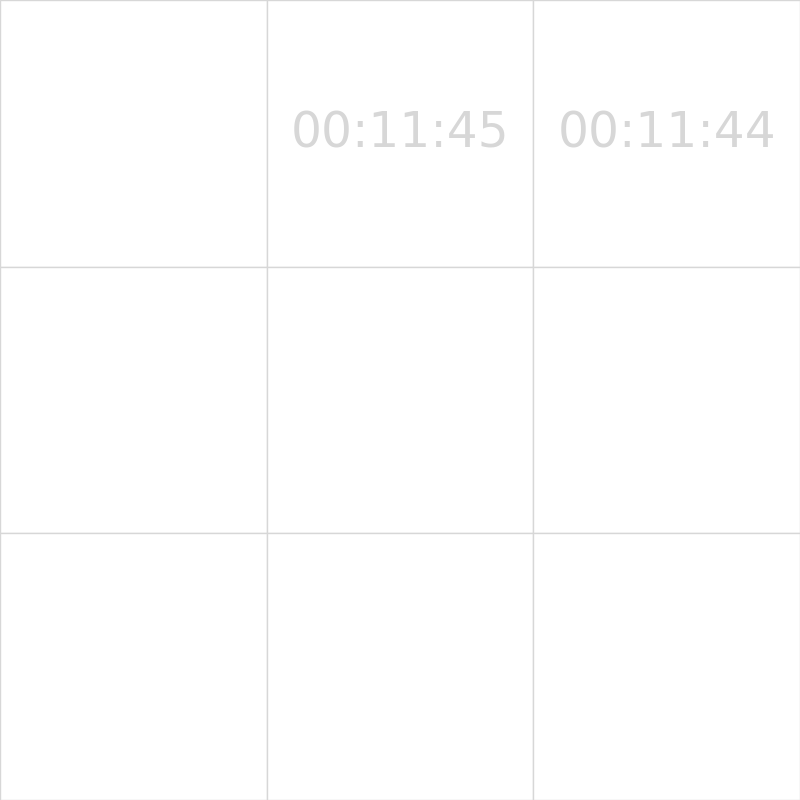
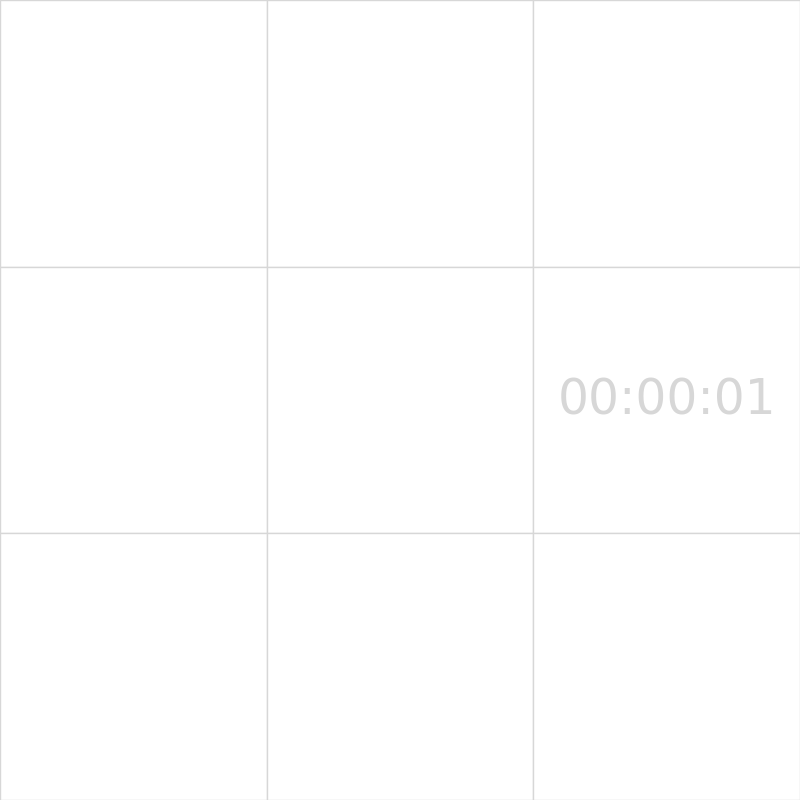
Agrega imágenes necesarias para visualizacion
Aumenta amplificación

diff --git a/sensorFlexibleSQLiteDB/recvSensor1.py b/sensorFlexibleSQLiteDB/recvSensor1.py
@@ -47,10 +47,10 @@ class Ui_MainWindow(object):
         #self.s.settimeout(0.5)
         #self.s.setsockopt(socket.IPPROTO_TCP, socket.TCP_NODELAY, 1)
         #self.s.setsockopt(socket.SOL_SOCKET, socket.SO_REUSEADDR, 1)
-        self.UDP_IP = "192.168.0.125"
+        self.UDP_IP = "192.168.0.108"
         self.UDP_PORT = 10000
 
-        self.UDP_IP_CLIENT = "192.168.0.100"
+        self.UDP_IP_CLIENT = "192.168.0.107"
         self.UDP_PORT_CLIENT = 2233
 
         print("escuchando",self.UDP_IP, self.UDP_PORT)
@@ -216,7 +216,7 @@ class Ui_MainWindow(object):
       
       for i in range(self.filas):
         for j in range(self.columnas):
-            matrizDistribucion[i][j] = matrizDistribucion[i][j]*20
+            matrizDistribucion[i][j] = matrizDistribucion[i][j]*25
 
             if matrizDistribucion[i][j] > 200:
                 matrizDistribucion[i][j] = 240

diff --git a/sensorFlexibleSQLiteDB/plotSensores.py b/sensorFlexibleSQLiteDB/plotSensores.py
@@ -104,7 +104,7 @@ class Ui_MainWindow(object):
 
         
     def dibujarDistribucionPresionSensor1(self):
-        #try:
+        try:
             maximoValor = 0
             for row in self.c.execute("SELECT * FROM sensorFlexible WHERE `id`='1'"):
                 dataSensor1 = row[1]
@@ -234,8 +234,8 @@ class Ui_MainWindow(object):
             crop1.save("../appSensorFlexibleWebLocalMatplotlib/img/sensor2SinTiempos.jpeg","jpeg")
             print('plot images')
             #sensorCompleto.save('/Applications/XAMPP/xamppfiles/htdocs/apps_rigido_flexible1/appSensorFlexibleWebLocalMatplotlib/img/sensor1.jpg')
-        #except:
-            #pass
+        except:
+            pass
 
       
 

diff --git a/sensorFlexibleSQLiteDB/recvSensor2.py b/sensorFlexibleSQLiteDB/recvSensor2.py
@@ -46,10 +46,10 @@ class Ui_MainWindow(object):
         #self.s.settimeout(0.5)
         #self.s.setsockopt(socket.IPPROTO_TCP, socket.TCP_NODELAY, 1)
         #self.s.setsockopt(socket.SOL_SOCKET, socket.SO_REUSEADDR, 1)
-        self.UDP_IP = "192.168.0.125"
+        self.UDP_IP = "192.168.0.108"
         self.UDP_PORT = 10001
 
-        self.UDP_IP_CLIENT = "192.168.0.101"
+        self.UDP_IP_CLIENT = "192.168.0.105"
         self.UDP_PORT_CLIENT = 2233
 
         self.s.bind((self.UDP_IP,self.UDP_PORT))

diff --git a/sensorFlexibleSQLiteDB/graphicsRealTimeAverageSensor.py b/sensorFlexibleSQLiteDB/graphicsRealTimeAverageSensor.py
@@ -36,9 +36,12 @@ class Ui_MainWindow(object):
         self.sqlDataBase()
 
         while True:
-            averageVector = self.AveragePerRow()
-            self.insertPoint(averageVector)
-            time.sleep(0.2)
+            try:
+                averageVector = self.AveragePerRow()
+                self.insertPoint(averageVector)
+                time.sleep(0.2)
+            except:
+                pass
         
     def sqlDataBase(self):
         

diff --git a/sensorFlexibleSQLiteDB/interfazTiemposExposicionSensor1.py b/sensorFlexibleSQLiteDB/interfazTiemposExposicionSensor1.py
@@ -22,7 +22,7 @@ maxint = 2 ** (struct.Struct('i').size * 8 - 1) - 1
 class interfazTiemposExposicion:
 
     def __init__(self):
-        self.tiempo = [['0:00:00','0:00:00','0:00:00'],['0:00:00','0:00:00','0:00:00'],['0:00:00','0:00:00','0:00:00']]
+        self.tiempo = [['00:00:00','00:00:00','00:00:00'],['00:00:00','00:00:00','00:00:00'],['00:00:00','00:00:00','00:00:00']]
         self.zona = 0
         #plt1.gca().invert_yaxis()
         axis = plt.gca()
